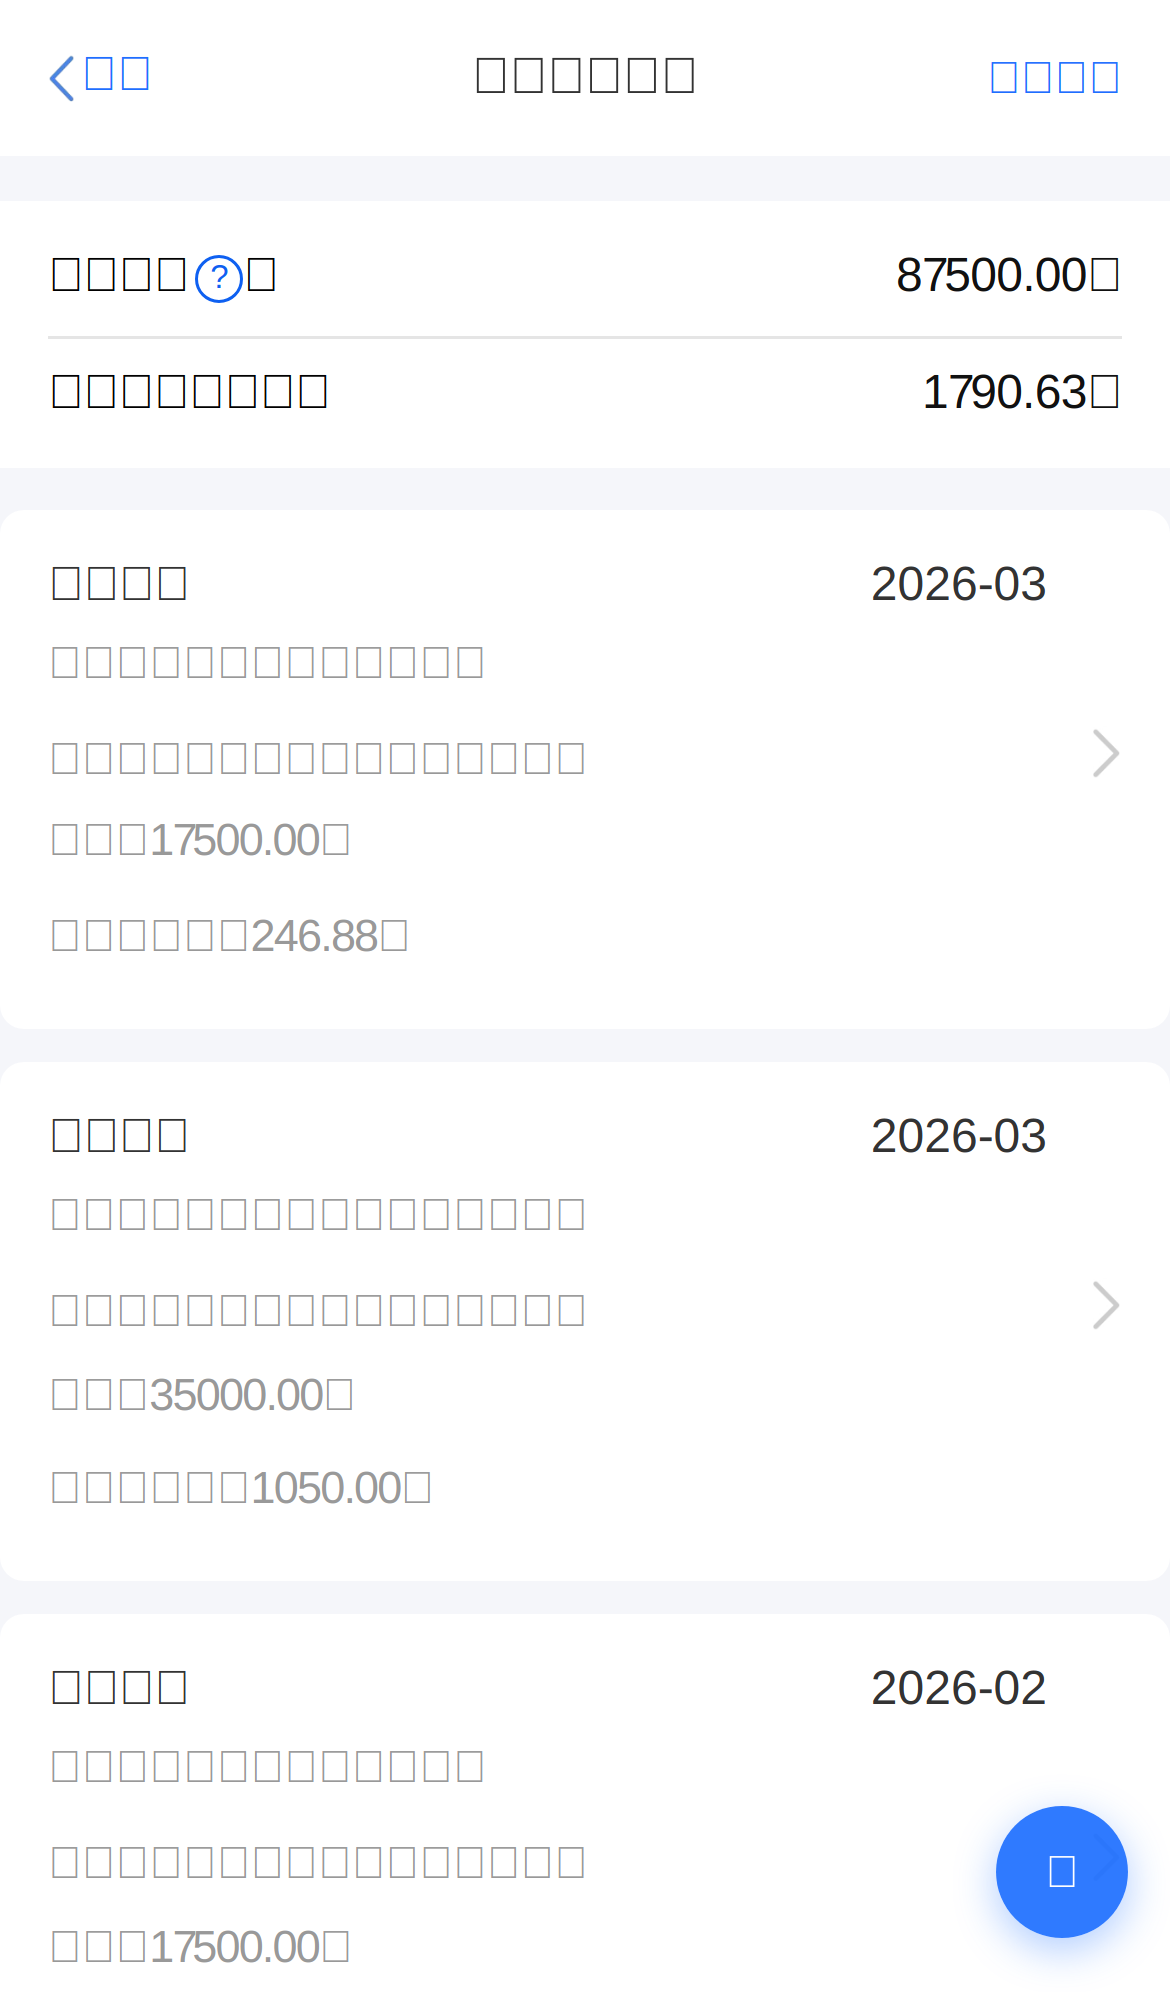
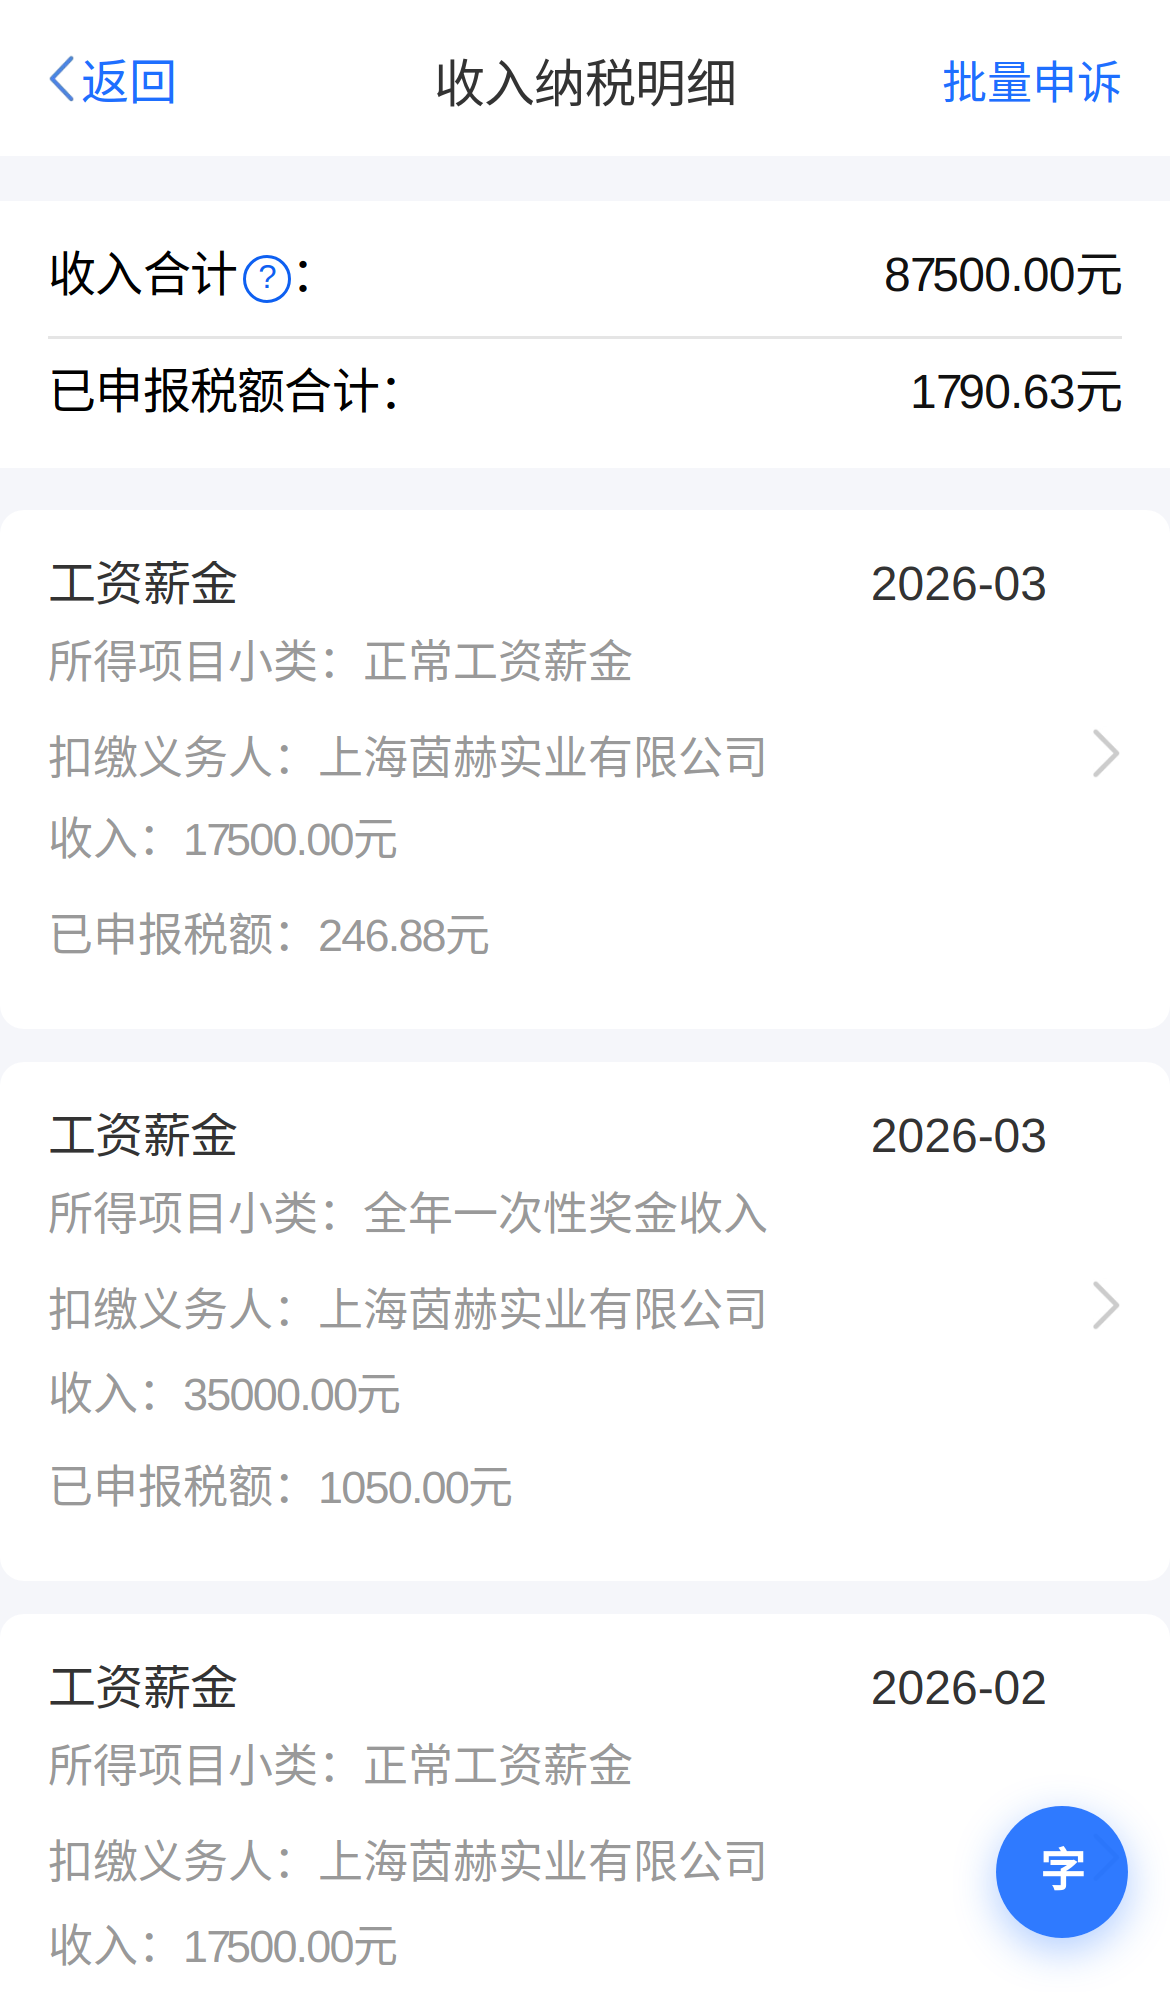
fix: README 截图中文方框乱码并补全页面 CJK 字体回退
安装 Noto CJK 后重拍 docs 截图；捕获脚本强制中文字体栈。

diff --git a/frontend/consult.html b/frontend/consult.html
@@ -8,7 +8,7 @@
     <style>
         * { margin: 0; padding: 0; box-sizing: border-box; }
         body {
-            font-family: -apple-system, BlinkMacSystemFont, 'Segoe UI', 'PingFang SC', sans-serif;
+            font-family: -apple-system, BlinkMacSystemFont, 'Segoe UI', Roboto, 'Helvetica Neue', Arial, 'PingFang SC', 'Hiragino Sans GB', 'Microsoft YaHei', 'Noto Sans CJK SC', 'WenQuanYi Micro Hei', sans-serif;
             background: #f5f6fa;
             min-height: 100vh;
             padding-bottom: calc(20px + env(safe-area-inset-bottom, 0px));

diff --git a/frontend/mine.html b/frontend/mine.html
@@ -16,7 +16,7 @@
         }
 
         body {
-            font-family: -apple-system, BlinkMacSystemFont, 'Segoe UI', 'PingFang SC', 'Hiragino Sans GB', 'Microsoft YaHei', sans-serif;
+            font-family: -apple-system, BlinkMacSystemFont, 'Segoe UI', Roboto, 'Helvetica Neue', Arial, 'PingFang SC', 'Hiragino Sans GB', 'Microsoft YaHei', 'Noto Sans CJK SC', 'WenQuanYi Micro Hei', sans-serif;
             background-color: #f5f6fa;
             min-height: 100vh;
             max-width: 100vw;

diff --git a/frontend/shuiming_result.html b/frontend/shuiming_result.html
@@ -37,7 +37,7 @@
         }
 
         body {
-            font-family: -apple-system, BlinkMacSystemFont, 'Segoe UI', Roboto, 'Helvetica Neue', Arial, sans-serif;
+            font-family: -apple-system, BlinkMacSystemFont, 'Segoe UI', Roboto, 'Helvetica Neue', Arial, 'PingFang SC', 'Hiragino Sans GB', 'Microsoft YaHei', 'Noto Sans CJK SC', 'WenQuanYi Micro Hei', sans-serif;
             background: #f5f6fa;
             min-height: 100vh;
             -webkit-font-smoothing: antialiased;

diff --git a/frontend/shouye.html b/frontend/shouye.html
@@ -13,7 +13,7 @@
         }
         
         body {
-            font-family: -apple-system, BlinkMacSystemFont, 'Segoe UI', Roboto, 'Helvetica Neue', Arial, sans-serif;
+            font-family: -apple-system, BlinkMacSystemFont, 'Segoe UI', Roboto, 'Helvetica Neue', Arial, 'PingFang SC', 'Hiragino Sans GB', 'Microsoft YaHei', 'Noto Sans CJK SC', 'WenQuanYi Micro Hei', sans-serif;
             background: #f6f7fb;
             min-height: 100vh;
         }

diff --git a/README.md b/README.md
@@ -28,7 +28,8 @@
 
 ![税务记录](docs/images/shot-tax.png)
 
-更新截图：在本地启动服务后执行 `SCREENSHOT_USERNAME=… SCREENSHOT_PASSWORD=… node scripts/capture-readme-screenshots.mjs`（需已安装 Playwright 浏览器）。
+更新截图：先安装中文字体（Linux：`sudo apt-get install -y fonts-noto-cjk`），再执行  
+`SCREENSHOT_USERNAME=… SCREENSHOT_PASSWORD=… node scripts/capture-readme-screenshots.mjs`（需已安装 Playwright 浏览器）。未装字体时截图中文会显示为方框。
 
 ---
 
